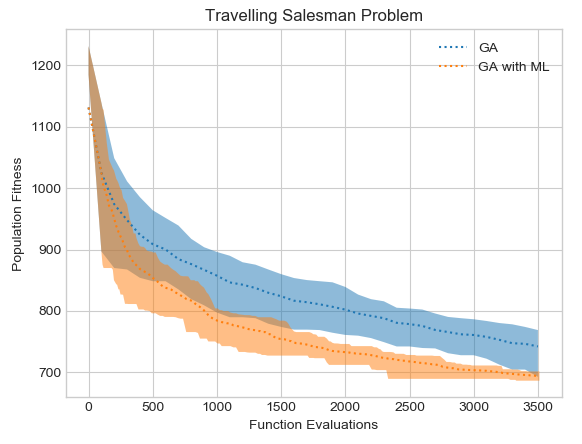
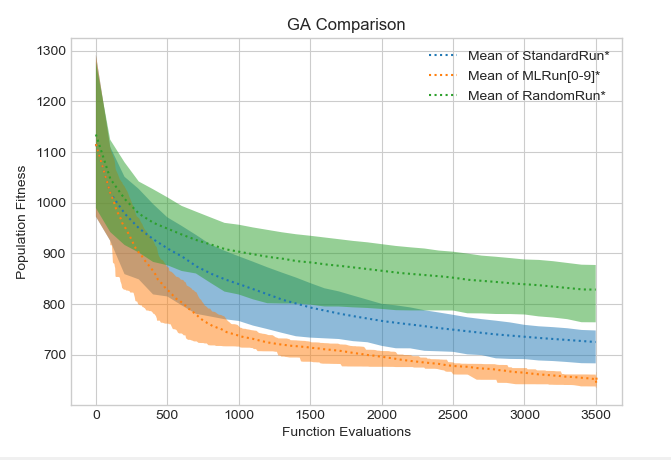
Add ability to plot means of many GA runs
Add ability to plot means of many aggregated GA runs.

Additionally, adds the functionality to plot random TSP runs. (And means of those runs)

diff --git a/GAlgorithm/geneticalgorithm.py b/GAlgorithm/geneticalgorithm.py
@@ -73,31 +73,34 @@ class GeneticAlgorithm:
             'BadPredictorPercentage': [],
         }
 
-    # def run_random(self):
-    #     '''generates random population with the "initialize" function
+    def run_random(self):
+        '''generates random population with the "initialize" function
 
-    #     culls new populations to ensure the fitness does not move backwards'''
+        culls new populations to ensure the fitness does not move backwards
+        '''
 
-    #     self.reset()
-    #     pop_size = len(self.initial_population.individuals)
+        self.reset()
+        pop_size = len(self.initial_population.individuals)
 
-    #     new_population = self.initial_population.copy()
-    #     self.pop_history.append(new_population)
+        new_population = self.initial_population.copy()
+        self.pop_history.append(new_population)
 
-    #     while self.f_evals < self.f_eval_max:
-    #         # run objective function and keep count
-    #         objective_calls = new_population.evaluate(self.fitness_function, self.fitness_params)
-    #         self.f_evals += objective_calls
+        while self.f_evals < self.f_eval_max:
+            # run objective function and keep count
+            objective_calls = new_population.evaluate(self.fitness_function, self.fitness_params)
+            self.f_evals += objective_calls
 
-    #         # only keep the best of the old and new population
-    #         population = cull(pop_size, self.pop_history[-1], new_population)
+            # only keep the best of the old and new population
+            population = cull(pop_size, self.pop_history[-1], new_population)
 
-    #         # add population to the history, and update the function evals it took
-    #         population.f_evals = objective_calls
-    #         self.pop_history.append(population)
+            # add population to the history, and update the function evals it took
+            population.f_evals = objective_calls
+            self.pop_history.append(population)
 
-    #         # evolve population
-    #         new_population = self.evolve(population, self.tourny_size, self.mutation_rate)
+            # create new population
+            new_population = population.copy()
+            for p in new_population.individuals:
+                p.randomize()
 
     def run(self):
         '''runs the genetic algorithm without machine learning'''

diff --git a/examples/tsp/tsp.py b/examples/tsp/tsp.py
@@ -42,7 +42,7 @@ GA_ARGS = {
     'training_data_function' :  make_training_data,
     'tourny_size': 2, 
     'mutation_rate': 0.05,
-    'f_eval_max': 500,
+    'f_eval_max': 3500,
     'classifier_percentage': 0.25,
     'crossover_fn': crossover,
     'mutate_fn': mutate
@@ -88,16 +88,34 @@ def run_ml_mod(num_iterations=1, save_directory=DEFAULT_SAVE_DIRECTORY):
         plot_fp = Path(save_directory) / Path(f'MLRun{n}.txt')
         plot_fp.touch()
 
-        classifier_vars_fp = Path(save_directory) / Path(f'MLRun{n}_ClassiferVars.txt')
+        classifier_vars_fp = Path(save_directory) / Path(f'MLRunClassiferVars{n}.txt')
         classifier_vars_fp.touch()
 
         ga.classifer_vars_fp = classifier_vars_fp
         ga.run_with_ml()
         ga.pop_history.to_csv(plot_fp)
 
-def make_cities(numcities:int):
+def run_random(num_iterations=1, save_directory=DEFAULT_SAVE_DIRECTORY):
+    
+    ga = GeneticAlgorithm(**GA_ARGS)
+
+    Path(save_directory).mkdir(parents=True, exist_ok=True)
+    
+    for n in range(num_iterations):
+
+        plot_fp = Path(save_directory) / Path(f'RandomRun{n}.txt')
+        plot_fp.touch()
+
+        ga.run_random()
+        ga.pop_history.to_csv(plot_fp)
+
+def make_cities(numcities: int):
     cities = [City().randomize(0,200,0,200) for i in range(numcities)]
     route = Route(cities)
+    return route
+
+def write_cities(numcities: int):
+    route = make_cities(numcities)
     dump(route, f'cities\\newcity{numcities}.txt')
 
 

diff --git a/GAlgorithm/postprocessing/plot.py b/GAlgorithm/postprocessing/plot.py
@@ -12,10 +12,10 @@ def plot_many_objective_files(folder, run_file_patterns, mean=True):
 
     folder = Path(folder)
 
-    for pattern in run_file_patterns:
-        if mean == True:
-            plot_objective_files_mean(folder, pattern)
-        else:
+    if mean == True:
+        plot_objective_files_mean(folder, run_file_patterns)
+    else:
+        for pattern in run_file_patterns:
             plot_objective_files(folder, pattern)
 
 
@@ -50,7 +50,7 @@ def plot_objective_files_interpolations(folder, pattern):
 
     fitness_plot_from_points(points_list, pattern)
 
-def plot_objective_files_mean(folder, pattern):
+def objective_files_mean_points(folder, pattern):
 
     mean_points = PlotPoints()
 
@@ -66,7 +66,23 @@ def plot_objective_files_mean(folder, pattern):
         # add these points to the mean
         mean_points.add_to_mean(points)
 
+    return mean_points
+
+
+def plot_objective_file_mean(folder, pattern):
+
+    mean_points = objective_files_mean_points(folder, pattern)
+
     fitness_plot_from_points([(mean_points, 'Means')], pattern)
 
+def plot_objective_files_mean(folder, patterns):
+
+    points_list = []
+
+    for pattern in patterns:
+        mean_points = objective_files_mean_points(folder, pattern)
+        points_list.append((mean_points, f'Mean of {pattern}'))
+
+    fitness_plot_from_points(points_list, 'GA Comparison')
 
 # TODO 2) import and plot ML classifier variables

diff --git a/GAlgorithm/population.py b/GAlgorithm/population.py
@@ -77,6 +77,10 @@ class Individual:
         '''Makes X training data for the classifier'''
         assert False, 'You must implement the "make_training_data" method to use the classifier'
 
+    def randomize(self):
+        '''Randomizes the genes in this individual'''
+        assert False, 'You must implement the "randomize" method'
+
     def copy(self):
         '''Copies this individual based on whatever it is subclassed into'''
         return type(self)(self.genes.copy())

diff --git a/main.py b/main.py
@@ -2,10 +2,11 @@
 import examples
 
 # examples.run_tsp_comparison()
-# examples.run_tsp_standard(10)
-# examples.run_tsp_ml_mod(3)
+# examples.run_tsp_standard(20)
+# examples.run_tsp_ml_mod(20)
+# examples.run_tsp_random(20)
 
 from pathlib import Path
 from GAlgorithm import plot_many_objective_files
 
-plot_many_objective_files(Path().cwd() / 'data', ['StandardRun*', 'MLRun?.txt'])
+plot_many_objective_files(Path().cwd() / 'data', ['StandardRun*', 'MLRun[0-9]*', 'RandomRun*'])

diff --git a/examples/__init__.py b/examples/__init__.py
@@ -3,5 +3,6 @@ from .sentences import run as run_sentences
 from .tsp import (
     run_comparison as run_tsp_comparison,
     run_standard as run_tsp_standard,
-    run_ml_mod as run_tsp_ml_mod
+    run_ml_mod as run_tsp_ml_mod,
+    run_random as run_tsp_random
 )

diff --git a/examples/tsp/__init__.py b/examples/tsp/__init__.py
@@ -1,1 +1,1 @@
-from .tsp import run_comparison, run_standard, run_ml_mod
+from .tsp import run_comparison, run_standard, run_ml_mod, run_random

diff --git a/README.md b/README.md
@@ -6,16 +6,27 @@ Explores the benefit of machine learning classification in evolutionary loop.
 
 ## Future Work
 
-* Track variables that Dr. Ferguson requested
+* Plot tracked variables
 
 ## Traveling Salesman Example
 
-Minimization problem
+A minimization problem. The algorithm seeks to find the shortest route for a traveling salesman to take through a set of cities.
+
+### Optimization Curves
+
+The following figure compares the optimization curves between a randomly generated population, a standard genetic algorithm, and a genetic algorithm modified to use machine learning to classify "good" children and "bad" children.
 
 ![Travelling Salesman](assets/travelling_salesman.png)
 
-You can compare the top 10 salesman routes with and without machine learning (at 1000 objective function evaluations). The machine learning routes are notably consistent and better (shorter).
+### Route Comparison
+
+The top 10 salesman routes can be compared with and without machine learning (at 1000 objective function evaluations). The machine learning routes are notably consistent and better (shorter).
 ![Routes Comparison](assets/routes_comparison.png)
 
+### Classifier Effectiveness
 
+Genetic algorithms often generate many children that are worse solutions than the parent.
 
+The classifier's job is to determine which of the children are good or better than the parents, and which are worse. The genetic algorithm can then simply discard the "bad" children and not waste computation time evaluating their fitness.
+
+The machine learning classifier in this experiment must be evaluated on it's effectiveness and accuracy. If it ends up classifying many actually good children as bad, then the genetic algorithm will not see those children and suffer for it. if it ends up classifying many actually bad children as good, that is more acceptable as it will not worsen the actual solution results, but it will mean that we are losing efficiency and spending needless time on objective function evaluations.
